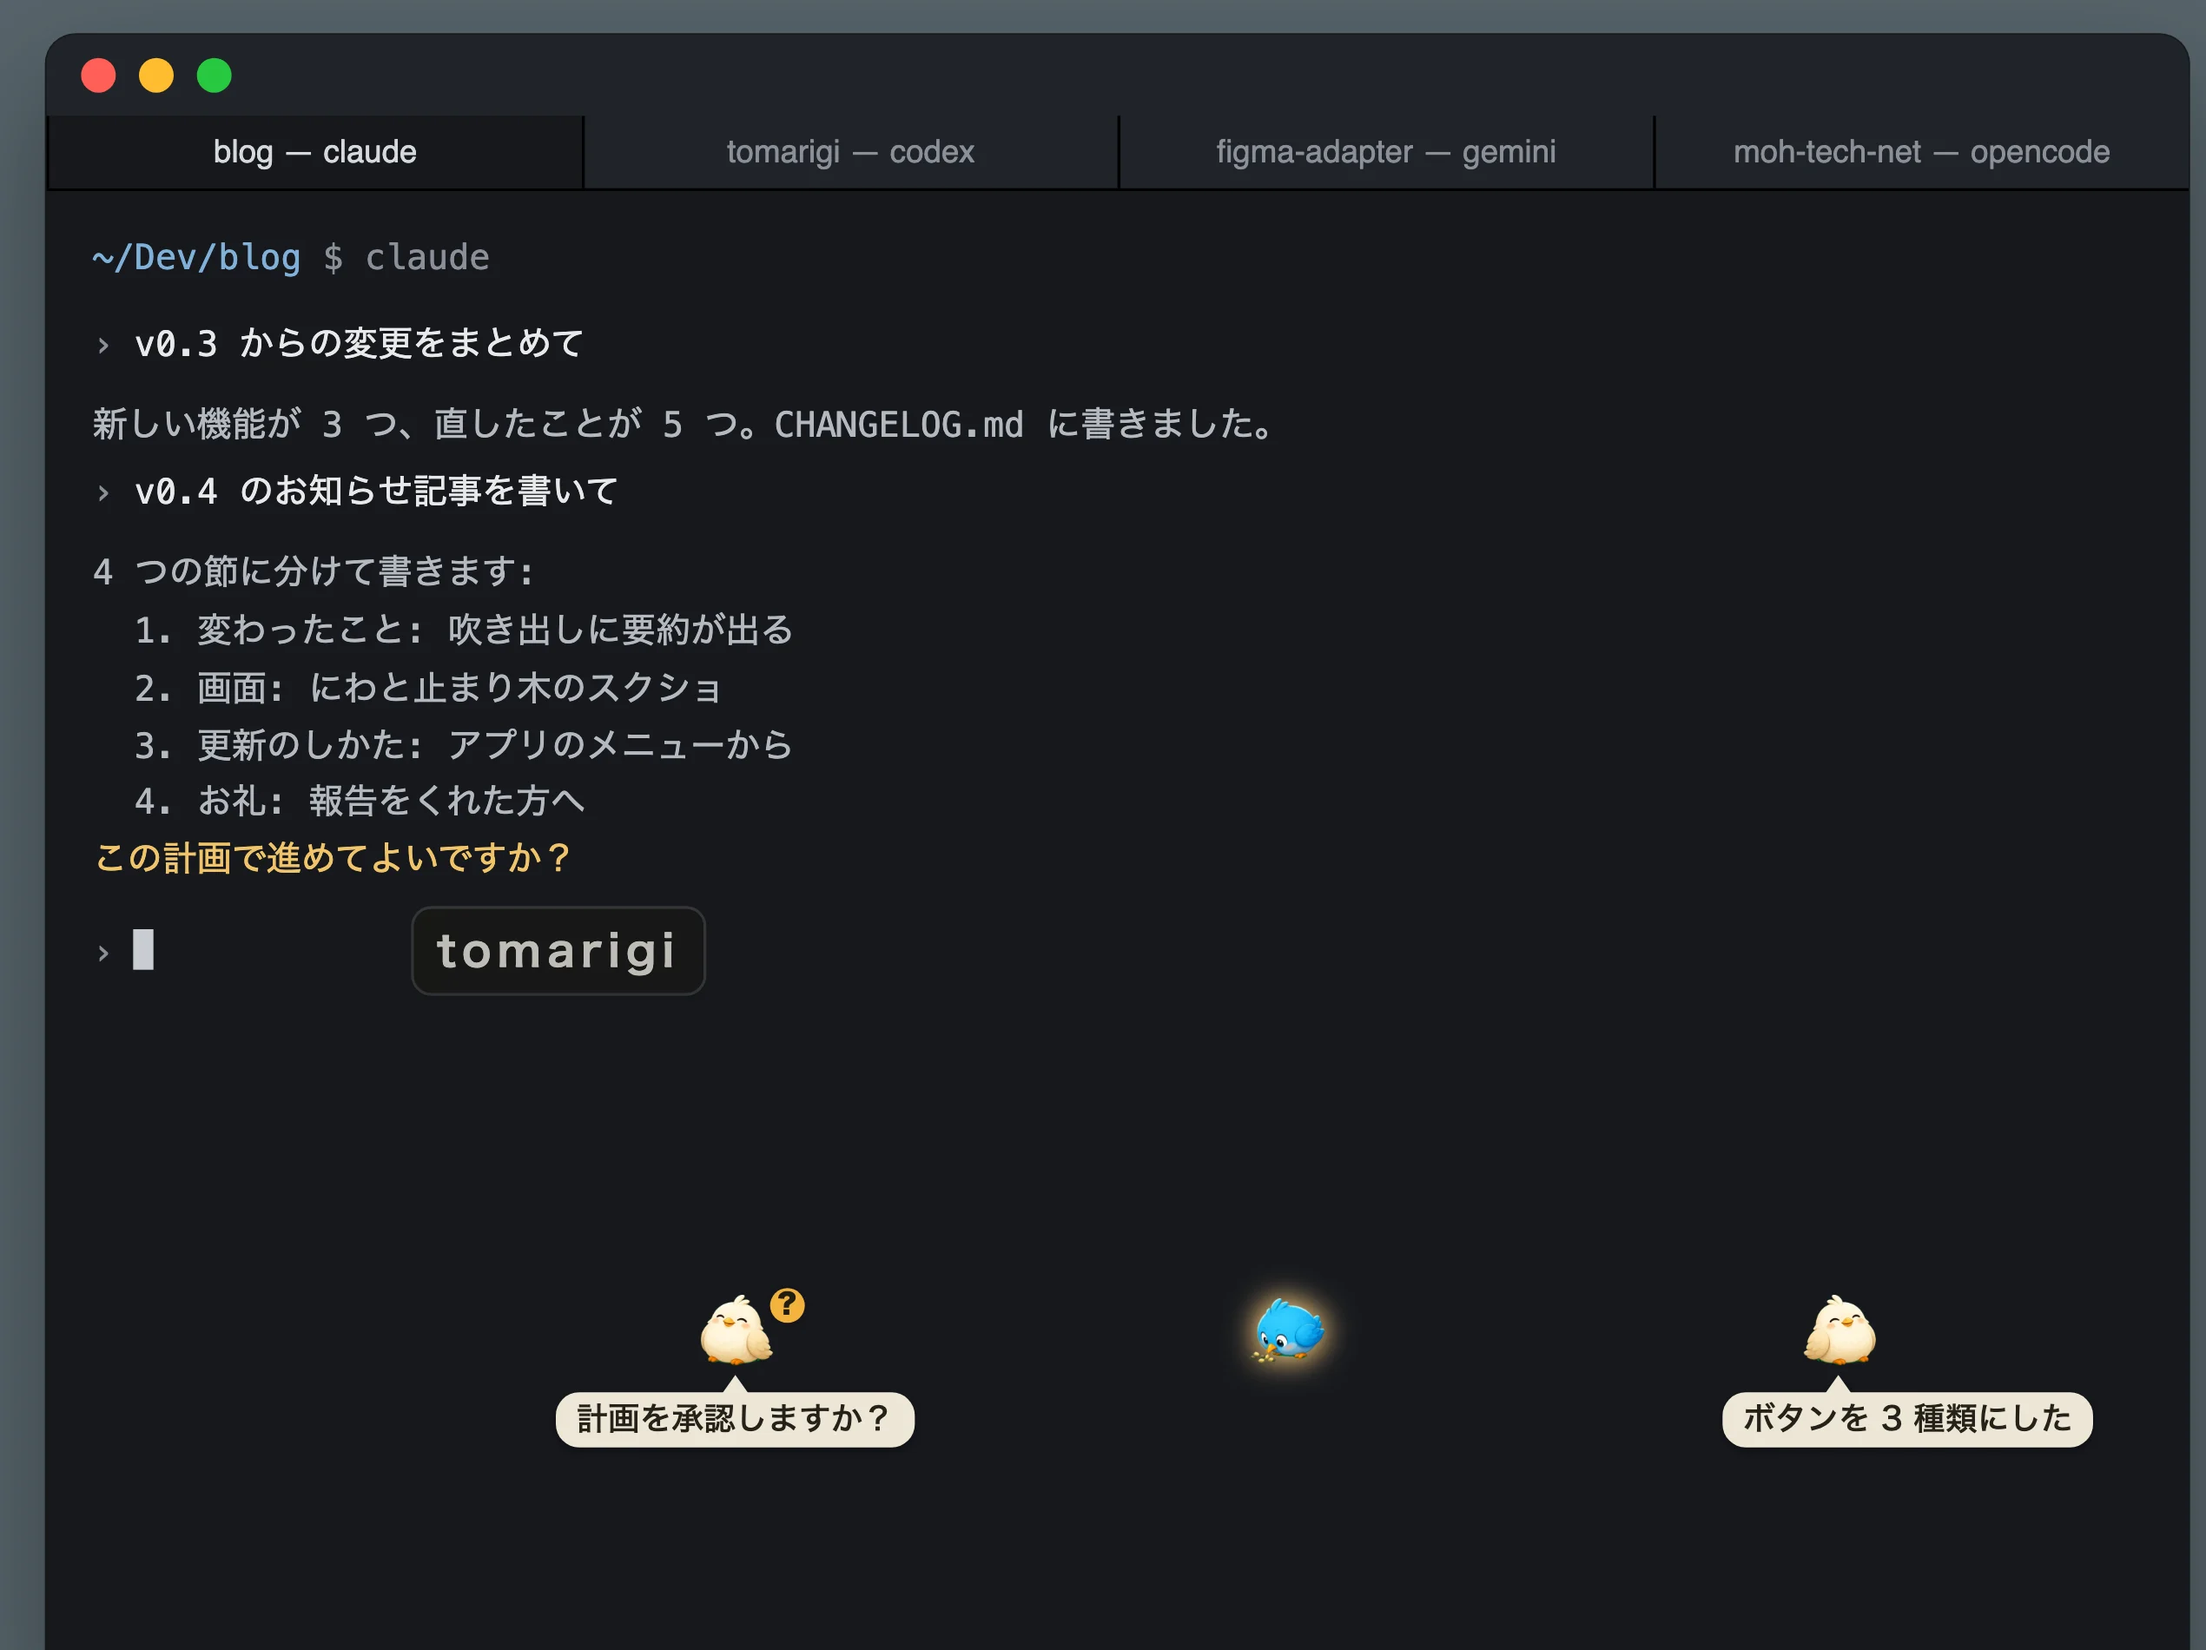
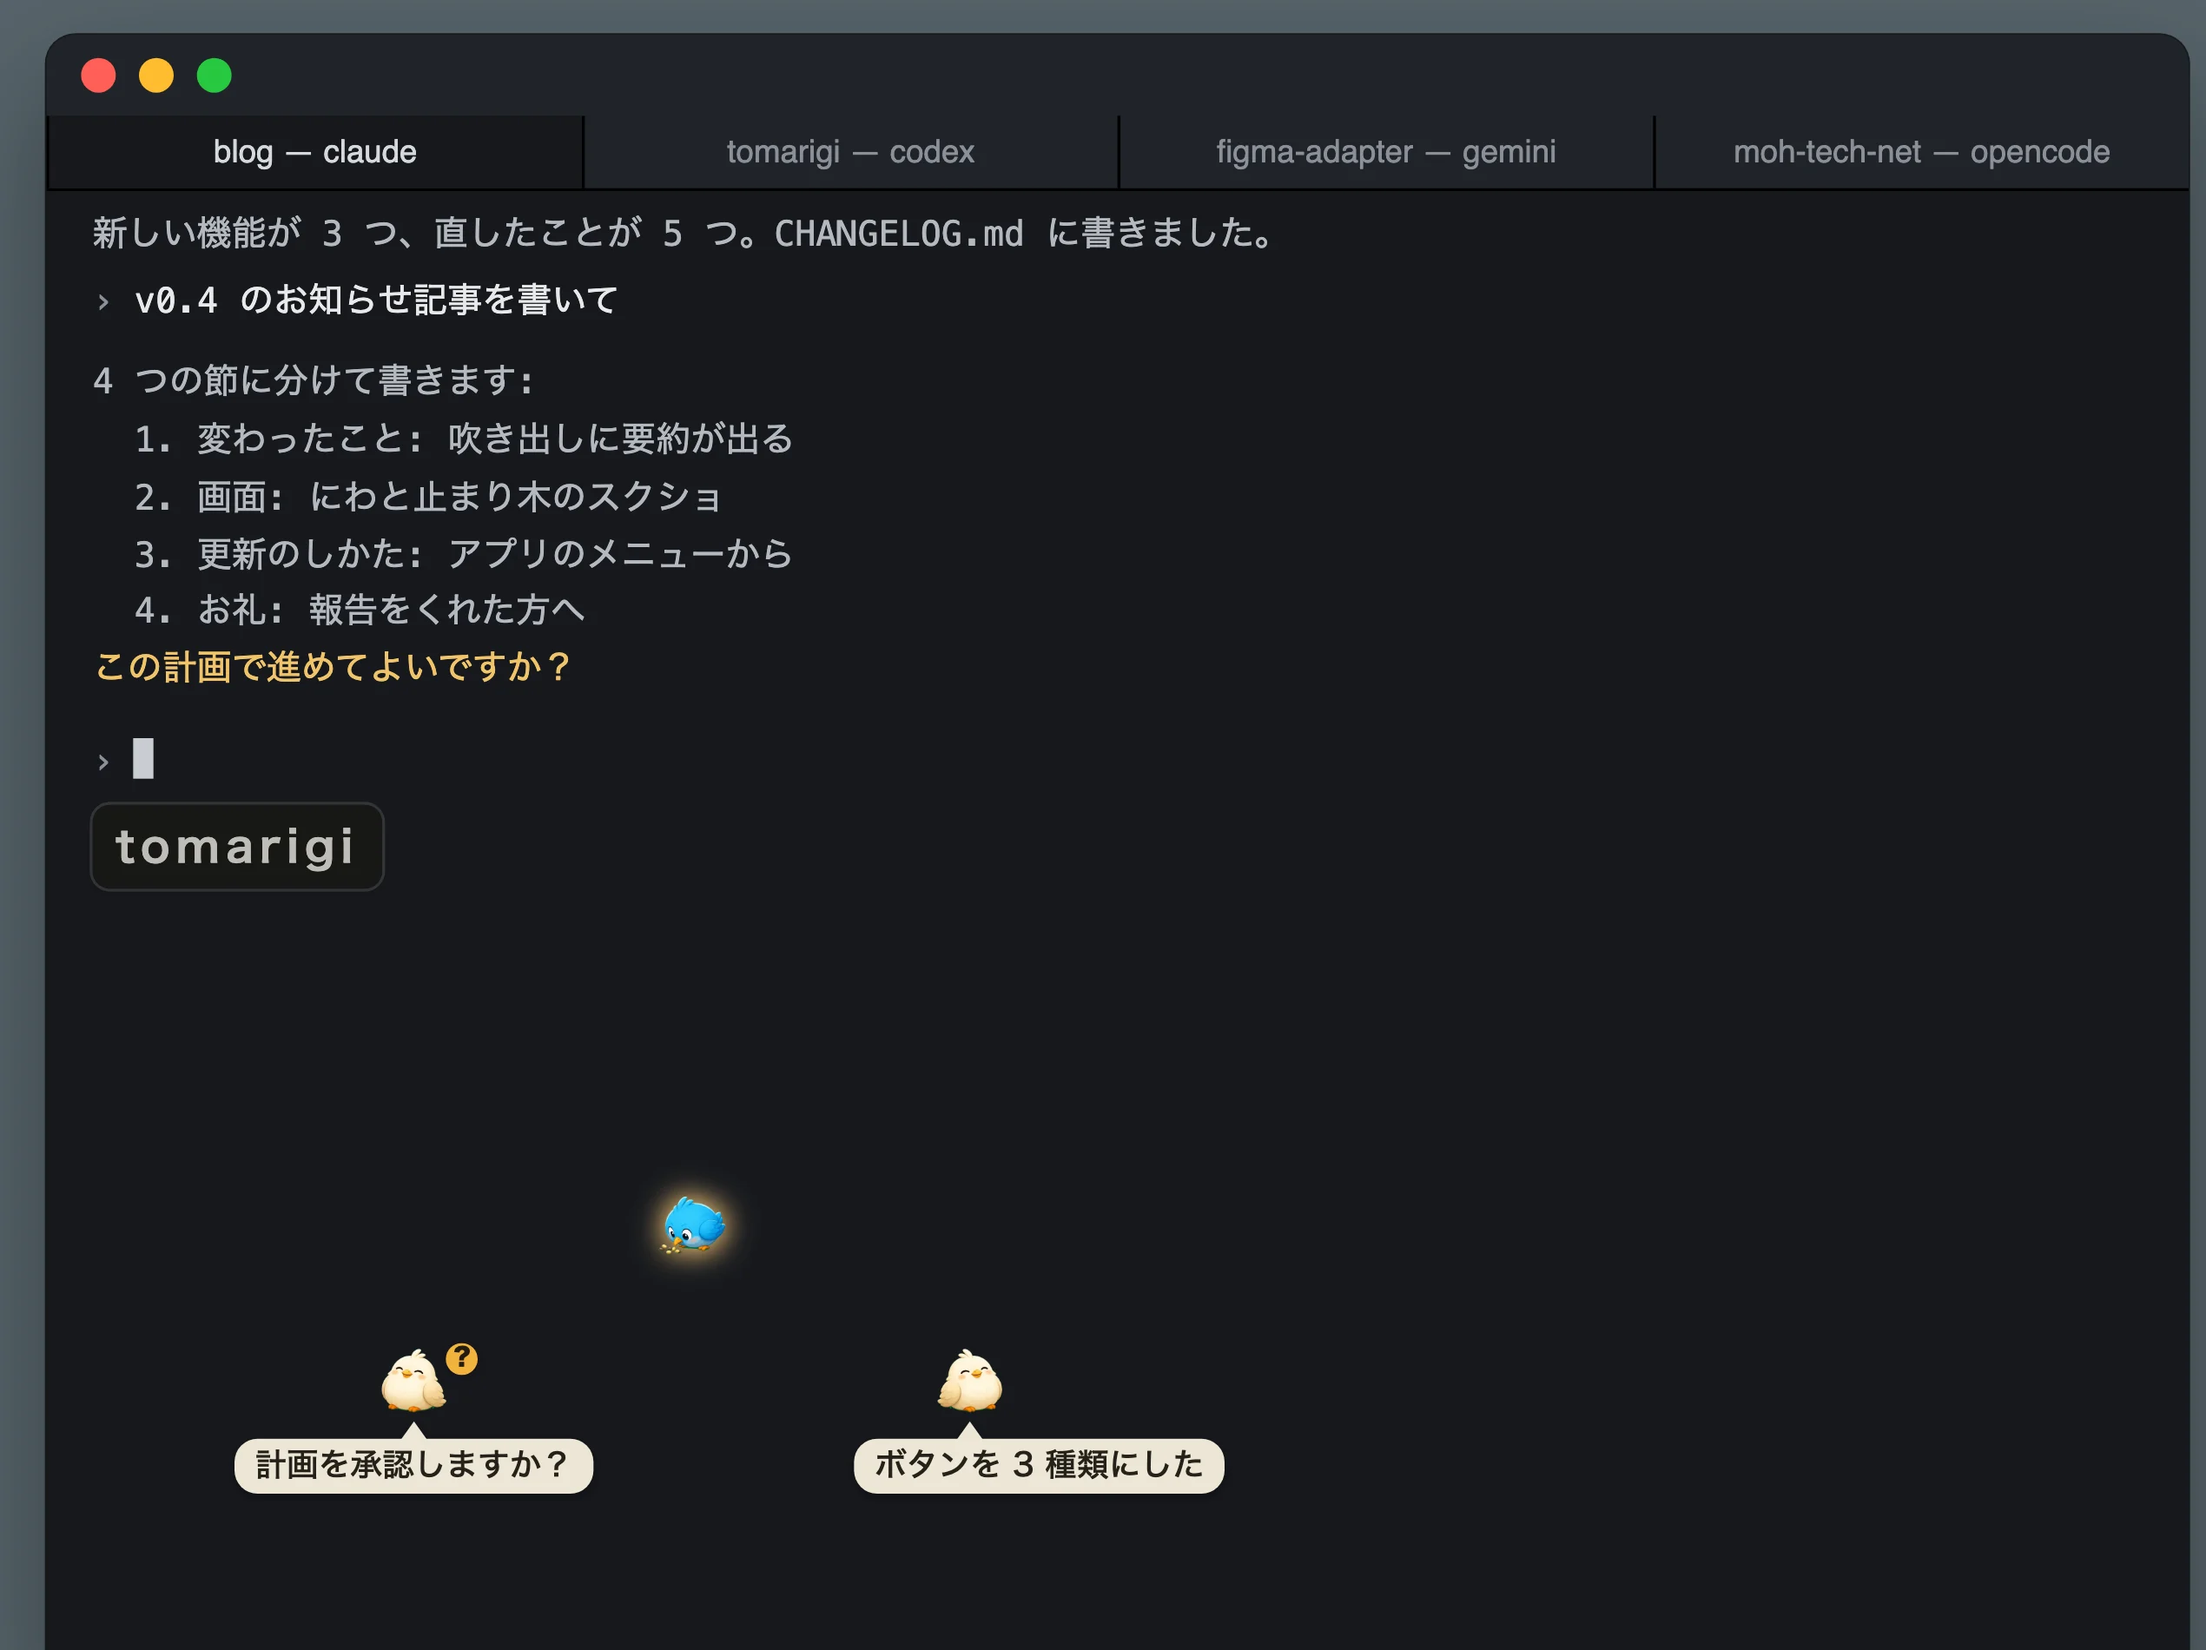
ギャラリー: にわの 3 羽を、ダウンロードページの hero で大きく見える狭い構図で撮り直す
庭が鳥ごとの枠（180px）を 12px 空けて置くので、「?」と完了を左右に、
吹き出しの無い作業中の鳥をその上の中央に置き、窓をその幅にする。
端末は質問文が窓の札のすぐ上に来るまで上へ送る。
撮影はビルド結果を Playwright で配る DIST= でもできるようにする。

diff --git a/docs/design.md b/docs/design.md
@@ -98,11 +98,11 @@ A desktop app for macOS, Windows, and Linux (Tauri 2; see "Platforms") that watc
   2. Perch: with many sessions, one list shows each one's state and summary, and sessions handed work by another are indented under it
   3. Recent activity: what finished or started waiting, newest first, so what was missed can be found later
   - The earlier Garden shots ("one bird per session", the "?", the summary bubble) are dropped: they were the same window with a different thing to look at, and the first image already shows all three. Perch and Recent activity were not in the gallery before, and no reason was recorded (the user asked 「gardenいがいのたぶのしょうかいはなんでいれてないの？」). Perch and Recent activity are never faded, so their shots have the window background
-  - They are shot with `scripts/gallery/shoot.mjs`, which opens the mock in a browser (`bun run dev:web`, `?mock=1&panel=0&preset=<gallery preset>`) in a frame over a desktop with a terminal, and sets the browser's language for each set. A browser rather than the app window, so the shots don't depend on the screen they are taken on and the language can be switched without changing the computer's (Claude's own decision). The frosted glass is drawn by the stage page with CSS. The birds' project names match the terminal's tabs, and the download page crops the first image to the window (Claude's own decision)
+  - They are shot with `scripts/gallery/shoot.mjs`, which opens the mock in a browser (`bun run dev:web`, or a `vite build` served through Playwright with `DIST=`; `?mock=1&panel=0&preset=<gallery preset>`) in a frame over a desktop with a terminal, and sets the browser's language for each set. A browser rather than the app window, so the shots don't depend on the screen they are taken on and the language can be switched without changing the computer's (Claude's own decision). The frosted glass is drawn by the stage page with CSS. The birds' project names match the terminal's tabs, and the download page crops the first image to the window (Claude's own decision)
   - One set per language: English (app UI in English) for README.md and the English page, Japanese (app UI in Japanese) for README.ja.md and the Japanese page. Reviewers of the Japanese page flagged the English text in the images more than once (Claude's own decision to make a Japanese set)
   - No title text is baked into the image. The caption is written next to the image (README table cell, page HTML) so it can be translated and changed without reshooting (Claude's own decision)
-  - All three share the same background and the same scale of the app window, so they read as one set side by side (Claude's own decision)
-  - The mock data names the agents the app supports today (not only Claude Code and Codex): the terminal behind the window has four tabs running Claude Code, Codex, Gemini CLI, and OpenCode, each in the folder of one of the birds (the Garden itself doesn't show which agent a bird is). The open tab is the blog session, whose question matches the blog bird's bubble; a reviewer read a bird drawn over another session's text as that session's bird when the terminal showed four panes. In the first image the birds sit on the empty part of the terminal below its text, since birds over text read as a broken screen to reviewers. They are put at saved (dragged) positions in one row with room between them (left to right the "?", the working one, the done one), since the grid put the working bird against the "?" bird and the three read as cramped (the user: 「なおして」; the row is Claude's own decision). The working bird has no bubble: bubbles show only for a stopped turn or a question, so the image shows only its working glow. The text in the bubbles follows the UI language; tool names aren't shown, since they are English in every language
+  - All three share the same background and the same scale of the app window, so they read as one set side by side; only the first image's terminal is scrolled further (Claude's own decision)
+  - The mock data names the agents the app supports today (not only Claude Code and Codex): the terminal behind the window has four tabs running Claude Code, Codex, Gemini CLI, and OpenCode, each in the folder of one of the birds (the Garden itself doesn't show which agent a bird is). The open tab is the blog session, whose question matches the blog bird's bubble; a reviewer read a bird drawn over another session's text as that session's bird when the terminal showed four panes. In the first image the birds sit on the empty part of the terminal below its text, since birds over text read as a broken screen to reviewers. They are put at saved (dragged) positions, left to right the "?", the working one, the done one, since the grid put the working bird against the "?" bird and the three read as cramped (the user: 「なおして」). They were then in one row across the window, which left most of the window empty and made them small in the download page's hero (the user: 「ダウンロードページのheroはたしかにちいさくみえるなしゅうせいして」). Now they take as little width as the garden allows without moving them: the garden keeps each bird's footprint (a bubble's 180px) 12px from the next, so the "?" and the done bird sit side by side and the working one, which has no bubble, sits above between them. The window is just wide enough for that, at the left edge of the terminal's text, and the terminal is scrolled so its question sits just above the window's handle; the terminal's question, the handle, and the birds with their bubbles fit in about 1300px of the 2540px image. The arrangement and the sizes are Claude's own decision. The working bird has no bubble: bubbles show only for a stopped turn or a question, so the image shows only its working glow. The text in the bubbles follows the UI language; tool names aren't shown, since they are English in every language
 - The × at the right end of the header hides the window (bring it back from the menu bar icon). Its label says "hide window", not "close", so it isn't mistaken for leaving settings or a dialog
 - The header and the row under it (the tabs, or the settings bar while in settings) stay at the top; only the content below them scrolls. The add-folder dialog follows the same rule: its title and × stay in view and only its content scrolls
 - The debug log is a screen like settings: it replaces the tabs' content under the header (the header buttons stay), shows a "‹ Back" row in place of the tabs, and closes with Back, the debug button again, or Esc. Settings and the debug log are never open at the same time
